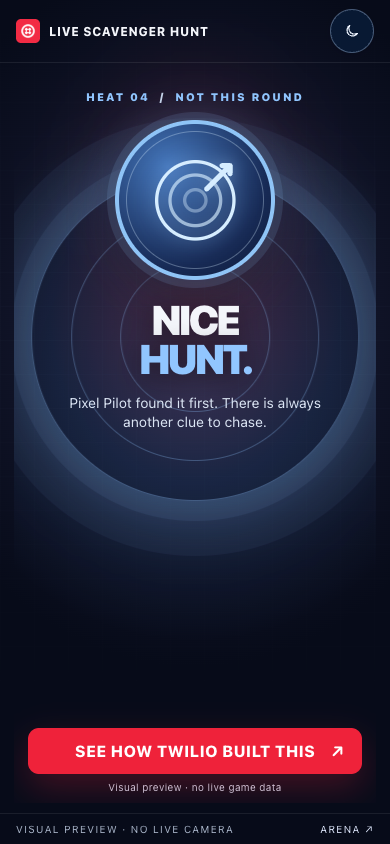
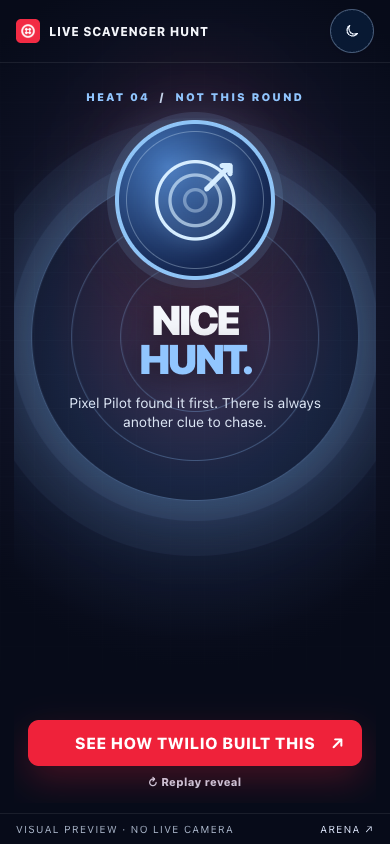
Add replayable result previews

Changed region(s): [[0.0615, 0.8318, 0.9231, 0.955]]

diff --git a/app/public/player-results.css b/app/public/player-results.css
@@ -4,7 +4,7 @@
 .player-page .leave-game[hidden] { display:none; }
 .player-page .hunt-reconnect { width:100%; min-height:42px; margin-top:8px; border:1px solid #9cb5da; border-radius:8px; background:#182a47; color:#fff; font-size:12px; font-weight:850; }
 .player-page .hunt-reconnect:hover { background:#234065; }
-.player-page .leave-game:focus-visible,.player-page .hunt-reconnect:focus-visible,.player-page .session-dialog button:focus-visible { outline:3px solid var(--red); outline-offset:3px; }
+.player-page .leave-game:focus-visible,.player-page .hunt-reconnect:focus-visible,.player-page .result-demo-replay:focus-visible,.player-page .session-dialog button:focus-visible { outline:3px solid var(--red); outline-offset:3px; }
 .player-page .screen[data-view="result"] { width:min(100%,540px); }
 .player-page .result-scene { --result-accent:#ff4e60; width:100%; height:100%; min-height:0; display:flex; flex-direction:column; align-items:center; justify-content:center; position:relative; isolation:isolate; overflow:hidden; padding:clamp(8px,2.2dvh,20px) 14px 10px; text-align:center; }
 .player-page .result-lose,.player-page .result-no-match { --result-accent:#91c6ff; }
@@ -27,7 +27,8 @@
 .player-page .result-actions { width:100%; margin-top:auto; padding-top:15px; }
 .player-page .result-actions .primary { justify-content:center; text-align:center; position:relative; }
 .player-page .result-actions .primary span:last-child { position:absolute; right:18px; }
-.player-page .result-demo-note { margin-top:7px; color:#c7d2e5; font-size:10px; letter-spacing:.03em; }
+.player-page .result-demo-replay { min-height:23px; margin-top:4px; padding:3px 9px; border:0; background:transparent; color:#c7d2e5; font-size:11px; font-weight:800; letter-spacing:.03em; }
+.player-page .result-demo-replay:hover { color:#fff; text-decoration:underline; }
 .player-page .result-confetti { position:absolute; z-index:3; inset:0; overflow:hidden; pointer-events:none; }
 .player-page .result-confetti i { position:absolute; top:-22px; left:var(--x); width:7px; height:14px; border-radius:2px; opacity:0; background:#fff4cc; }
 .player-page .result-confetti i:nth-child(3n) { background:#ff4e60; width:10px; height:9px; border-radius:50%; }
@@ -60,7 +61,8 @@ html[data-theme="light"] .player-page .hunt-reconnect { background:#fff; color:#
 html[data-theme="light"] .player-page .result-title { text-shadow:none; }
 html[data-theme="light"] .player-page .result-note { color:#344862; }
 html[data-theme="light"] .player-page .result-kicker span { color:#627691; }
-html[data-theme="light"] .player-page .result-demo-note { color:#536780; }
+html[data-theme="light"] .player-page .result-demo-replay { color:#536780; }
+html[data-theme="light"] .player-page .result-demo-replay:hover { color:#1a355a; }
 html[data-theme="light"] .player-page .session-dialog { background:#fff; color:#13223a; border-color:#a5b5ca; box-shadow:0 30px 85px #132b5260; }
 html[data-theme="light"] .player-page .session-dialog p:not(.session-dialog-kicker) { color:#40536e; }
 html[data-theme="light"] .player-page .session-dialog-kicker { color:#b71934; }

diff --git a/app/public/player.js b/app/public/player.js
@@ -187,7 +187,7 @@ function resultMarkup(winners, heat) {
   const emblem = won
     ? `<svg viewBox="0 0 160 160" aria-hidden="true"><path d="M38 34h84v40c0 37-20 59-42 59S38 111 38 74V34Z" fill="currentColor"/><path d="M38 49H19v19c0 22 14 35 34 35M122 49h19v19c0 22-14 35-34 35" fill="none" stroke="currentColor" stroke-width="10" stroke-linecap="round"/><path d="M80 132v15M55 148h50" stroke="currentColor" stroke-width="10" stroke-linecap="round"/><path d="m80 50 6 13 14 2-10 10 3 14-13-7-13 7 3-14-10-10 14-2 6-13Z" fill="#fff"/></svg>`
     : `<svg viewBox="0 0 160 160" aria-hidden="true"><circle cx="80" cy="80" r="58" fill="none" stroke="currentColor" stroke-width="5"/><circle cx="80" cy="80" r="38" fill="none" stroke="currentColor" stroke-width="5" opacity=".65"/><circle cx="80" cy="80" r="16" fill="none" stroke="currentColor" stroke-width="5" opacity=".4"/><path d="m97 63 35-35m-12 0h12v12" fill="none" stroke="currentColor" stroke-width="8" stroke-linecap="round" stroke-linejoin="round"/></svg>`;
-  return `<div class="result-scene result-${variant} ${entering ? 'result-entering' : ''}">${won ? resultConfetti() : ''}<div class="result-halo" aria-hidden="true"></div><p class="result-kicker">HEAT ${pad(heat)} <span aria-hidden="true">/</span> ${label}</p><div class="result-emblem">${emblem}</div><h1 class="result-title">${heading}</h1><p class="result-note">${note}</p><div class="result-actions">${button('SEE HOW TWILIO BUILT THIS', 'build')}</div>${isResultDemo ? '<span class="result-demo-note">Visual preview · no live game data</span>' : ''}</div>`;
+  return `<div class="result-scene result-${variant} ${entering ? 'result-entering' : ''}">${won ? resultConfetti() : ''}<div class="result-halo" aria-hidden="true"></div><p class="result-kicker">HEAT ${pad(heat)} <span aria-hidden="true">/</span> ${label}</p><div class="result-emblem">${emblem}</div><h1 class="result-title">${heading}</h1><p class="result-note">${note}</p><div class="result-actions">${button('SEE HOW TWILIO BUILT THIS', 'build')}</div>${isResultDemo ? '<button type="button" class="result-demo-replay" data-action="replay-demo">↻ Replay reveal</button>' : ''}</div>`;
 }
 
 function preview() {
@@ -639,6 +639,7 @@ screen.addEventListener('click', async event => {
     }
     if (action === 'lead-previous') { syncLeadDraft(); app.leadPage -= 1; app.error = ''; render(true); }
     if (action === 'lead-submit') await submitLead();
+    if (action === 'replay-demo' && isResultDemo) { app.resultRevealSeen.clear(); render(true); }
     if (action === 'replay') await leaveGame('intro');
     if (action === 'rejoin') { app.view = 'intro'; app.error = ''; render(true); }
   } catch (error) { showError(error); }

diff --git a/app/public/arena.html b/app/public/arena.html
@@ -337,7 +337,7 @@
       <div class="brand" aria-label="Twilio Live Scavenger Hunt">
         <img class="brand-bug" src="/assets/twilio-bug-official.png" alt="Twilio" width="38" height="38"><span class="brand-divider"></span><span class="brand-event" id="eventName">Live Scavenger Hunt</span>
       </div>
-      <div class="top-meta"><span class="live-mark" id="liveMark">Live arena</span><span class="heat-number" id="heatNumber">HEAT 01</span><a class="operator-link" href="#" id="operatorLink" aria-label="Open operator controls">Operator ↗</a><button class="theme-toggle" data-theme-toggle type="button" aria-label="Light mode"></button></div>
+      <div class="top-meta"><span class="live-mark" id="liveMark">Live arena</span><span class="heat-number" id="heatNumber">HEAT 01</span><button class="preview-replay" id="previewReplay" type="button" aria-label="Replay the result animation" hidden><span>↻</span><span class="preview-replay-label">Replay reveal</span></button><a class="operator-link" href="#" id="operatorLink" aria-label="Open operator controls">Operator ↗</a><button class="theme-toggle" data-theme-toggle type="button" aria-label="Light mode"></button></div>
     </header>
 
     <section class="hero-row" aria-live="polite" aria-atomic="true">

diff --git a/app/public/arena-results.css b/app/public/arena-results.css
@@ -138,6 +138,12 @@
 .arena-page .screen[data-phase="result"].show-result .winner-stamp { animation: stamp-pop .65s .55s cubic-bezier(.16,1.2,.2,1) both; }
 .arena-page .screen.is-preview .live-mark::before { background: #78aaf5; box-shadow: 0 0 0 5px rgba(120,170,245,.14), 0 0 22px #78aaf5; }
 .arena-page .screen.is-preview .footer-status { display: none; }
+.arena-page .preview-replay { display:inline-flex; align-items:center; gap:6px; padding:7px 10px; border:1px solid #7899c566; border-radius:99px; background:#142646; color:#e9f3ff; font-size:11px; font-weight:800; white-space:nowrap; }
+.arena-page .preview-replay:hover { border-color:#c9defa; background:#20395c; }
+.arena-page .preview-replay[hidden] { display:none; }
+.arena-page .preview-replay:focus-visible { outline:3px solid var(--red); outline-offset:3px; }
+@media (max-width:680px) { .arena-page .preview-replay { width:31px; height:31px; padding:0; justify-content:center; font-size:17px; } .arena-page .preview-replay-label { display:none; } }
+html[data-theme="light"] .arena-page .preview-replay { background:#fff; color:#18365e; border-color:#9bb2d2; }
 .arena-page .demo-portrait { object-fit: cover; }
 
 html[data-theme="light"] .arena-page .screen[data-phase="result"].has-winner .headline {

diff --git a/app/public/arena.js b/app/public/arena.js
@@ -508,6 +508,7 @@ async function initialize() {
       roster: demoRoster, winners: demoWinners[previewMode], vote: null, paused: false };
     app.mediaStatus = 'Visual preview';
     screen.classList.add('is-preview');
+    $('previewReplay').hidden = false;
     render();
     return;
   }
@@ -536,4 +537,14 @@ async function initialize() {
 if ('ResizeObserver' in window) new ResizeObserver(layoutTiles).observe(field);
 else addEventListener('resize', layoutTiles);
 addEventListener('pagehide', () => app.mediaSession?.disconnect?.());
+$('previewReplay').addEventListener('click', () => {
+  if (!previewMode) return;
+  app.resultEffectKey = null;
+  app.renderSignature = '';
+  render();
+  const headline = $('headline');
+  headline.classList.remove('flash');
+  void headline.offsetWidth;
+  headline.classList.add('flash');
+});
 initialize();

diff --git a/docs/runbook.md b/docs/runbook.md
@@ -60,7 +60,7 @@ A player can tap **Leave** while queued or playing and confirm the choice. Their
 
 For a disruptive player, open **Manage players** on the operator live desk. Choose a player in the current heat or next-heat queue and confirm **Remove player**. The server clears their slot, invalidates their current player token, removes them from judging and creative ballots, records `player_kicked`, and attempts to disconnect them from the Twilio Video Room. The command response reports `mediaDisconnect.status` as `ok` or `failed`; a failure needs a booth-staff check of the room. Removing a winner during the result corrects the stored award. This is session-level removal: a person can join again with a new browser session, so continue to monitor the wall.
 
-The result designs can be reviewed without changing live event data at `/e/:slug/arena?demo=win` or `?demo=lose` and `/e/:slug/play?demo=win` or `?demo=lose`. The preview fixtures do not join a room, open a heat, judge a player, or write metrics. Do a separate real heat rehearsal before the event.
+The result designs can be reviewed without changing live event data at `/e/:slug/arena?demo=win` or `?demo=lose` and `/e/:slug/play?demo=win` or `?demo=lose`. Each preview has a **Replay reveal** control. The fixtures do not join a room, open a heat, judge a player, or write metrics. Do a separate real heat rehearsal before the event.
 
 ## 4. Connect Twilio Video
 

diff --git a/README.md b/README.md
@@ -64,7 +64,7 @@ The wall also rearranges for traffic at the booth:
 
 ![Six-player Live Scavenger Hunt arena preview](docs/visuals/live-scavenger-hunt-arena-6-players.png)
 
-After starting the app, open the read-only [arena win](http://127.0.0.1:65111/e/live-scavenger-hunt/arena?demo=win), [arena loss](http://127.0.0.1:65111/e/live-scavenger-hunt/arena?demo=lose), [phone win](http://127.0.0.1:65111/e/live-scavenger-hunt/play?demo=win), or [phone loss](http://127.0.0.1:65111/e/live-scavenger-hunt/play?demo=lose) preview. Preview URLs do not start a heat, connect a camera, judge a player, or write metrics.
+After starting the app, open the read-only [arena win](http://127.0.0.1:65111/e/live-scavenger-hunt/arena?demo=win), [arena loss](http://127.0.0.1:65111/e/live-scavenger-hunt/arena?demo=lose), [phone win](http://127.0.0.1:65111/e/live-scavenger-hunt/play?demo=win), or [phone loss](http://127.0.0.1:65111/e/live-scavenger-hunt/play?demo=lose) preview. Use **Replay reveal** on either screen to watch the animation again. Preview URLs do not start a heat, connect a camera, judge a player, or write metrics.
 
 ## Twilio product story
 
